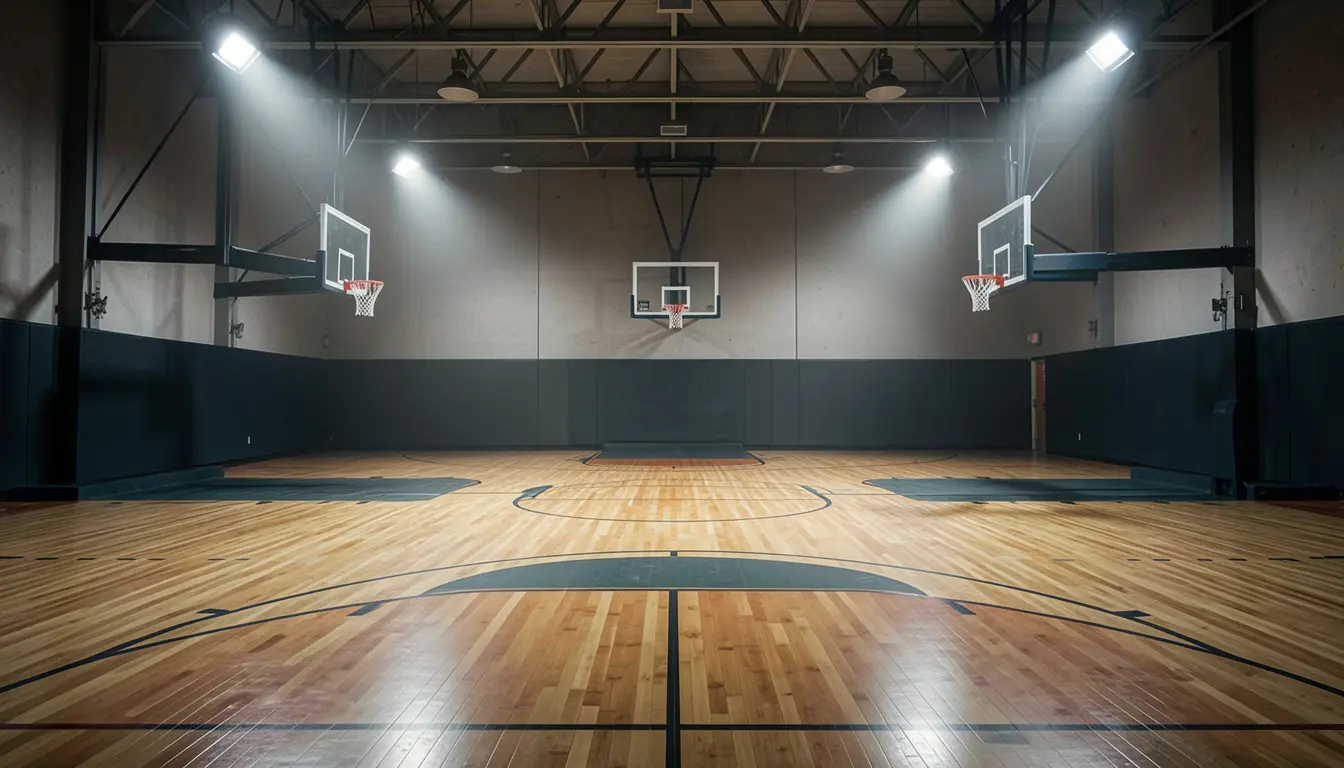
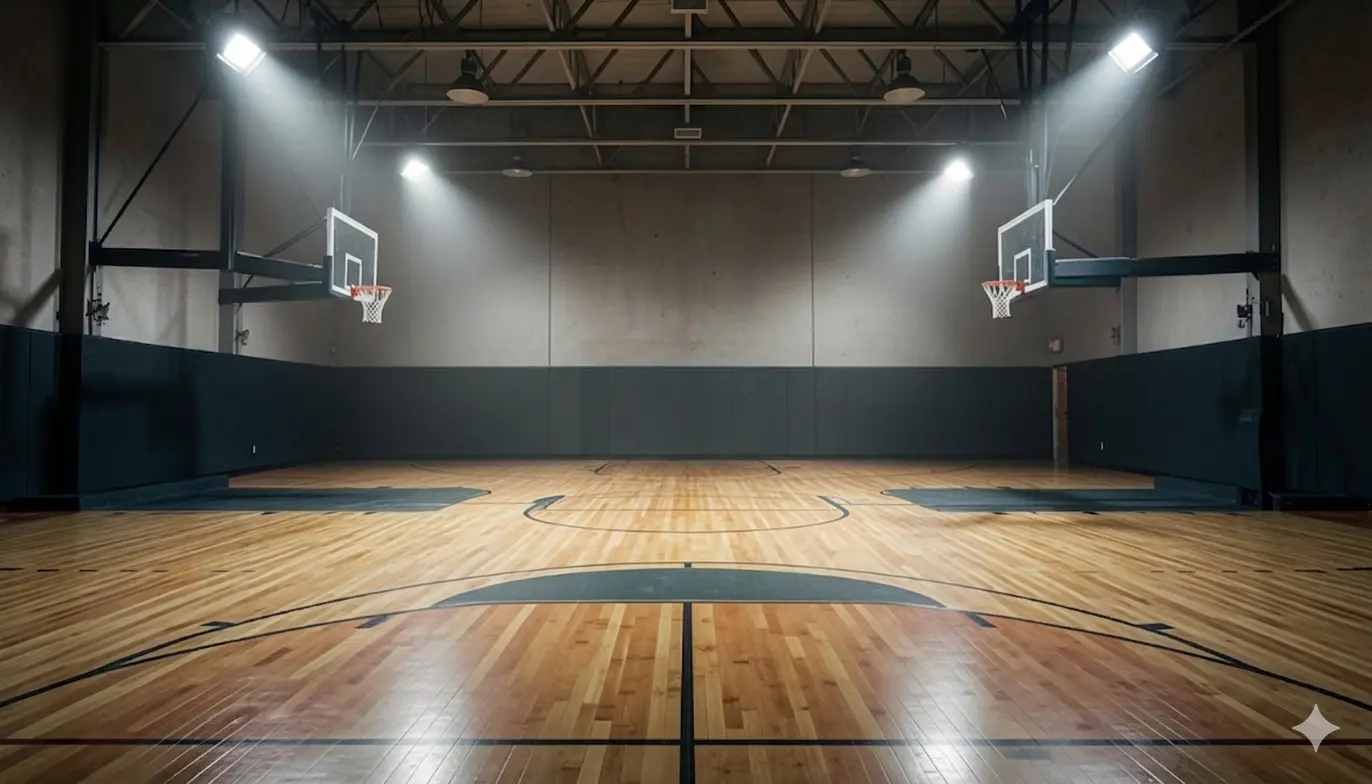
refactor: move firebase config to shared services and add firestore support

diff --git a/src/shared/components/AppHeader.vue b/src/shared/components/AppHeader.vue
@@ -10,11 +10,17 @@
                     <span class="navbar-toggler-icon"></span>
                 </button>
                 <div class="collapse navbar-collapse" id="mainNav">
-                    <ul class="navbar-nav align-items-center fw-strong ms-auto me-0">
+                    <ul class="navbar-nav align-items-center h6 ms-auto me-0">
+                        
+                        <li class="nav-item">
+                            <router-link class="nav-link text-dark" to="/">
+                                <i class="bi bi-house-fill opacity-50"></i> Inicio
+                            </router-link>
+                        </li>
 
                         <li v-if="!authStore.isAuthenticated" class="nav-item">
                             <router-link class="nav-link text-dark" to="/login">
-                                <i class="bi bi-person-fill opacity-75"></i> Ingresar como entrenador
+                                <i class="bi bi-person-fill opacity-75"></i> Ingresar como Entrenador
                             </router-link>
                         </li>
 
@@ -22,19 +28,18 @@
                             <a class="nav-link dropdown-toggle text-dark" href="#" role="button" data-bs-toggle="dropdown"><i class="bi bi-person-fill opacity-50"></i> Hola, {{ authStore.user.email.split('@')[0] }} <i class="bi bi-chevron-down ms-1"></i></a>
                             <ul class="dropdown-menu dropdown-menu-end border-0 box-shadow">
                                 <li>
-                                    <router-link class="dropdown-item" to="/trainers/edit-trainer">
+                                    <router-link class="dropdown-item py-2" to="/matches/new-match">
+                                        <i class="bi bi-plus-circle me-1"></i> Crear partido
+                                    </router-link>
+                                </li>
+                                <li>
+                                    <router-link class="dropdown-item py-2" to="/trainers/edit-trainer">
                                         <i class="bi bi-person-fill opacity-75 me-1"></i> Perfil del Entrenador
                                     </router-link>
                                 </li>
                                 <li><hr class="dropdown-divider"></li>
                                 <li>
-                                    <router-link class="dropdown-item" to="/matches/new-match">
-                                        <i class="bi bi-plus-circle me-1"></i> Crear partido
-                                    </router-link>
-                                </li>
-                                <li><hr class="dropdown-divider"></li>
-                                <li>
-                                    <button class="dropdown-item" @click="handleLogout"><i class="bi bi-box-arrow-right me-1"></i> Salir</button>
+                                    <button class="dropdown-item py-2" @click="handleLogout"><i class="bi bi-box-arrow-right me-1"></i> Salir</button>
                                 </li>
                             </ul>
                         </li>

diff --git a/src/features/auth/services/auth.service.js b/src/features/auth/services/auth.service.js
@@ -6,7 +6,8 @@ import {
     signInWithPopup,    // Importar el método para abrir el popup
     signInWithRedirect
 } from 'firebase/auth'
-import { firebaseApp } from './firebase'
+
+import { firebaseApp } from '@/shared/services/firebase'
 
 export const auth = getAuth(firebaseApp)
 